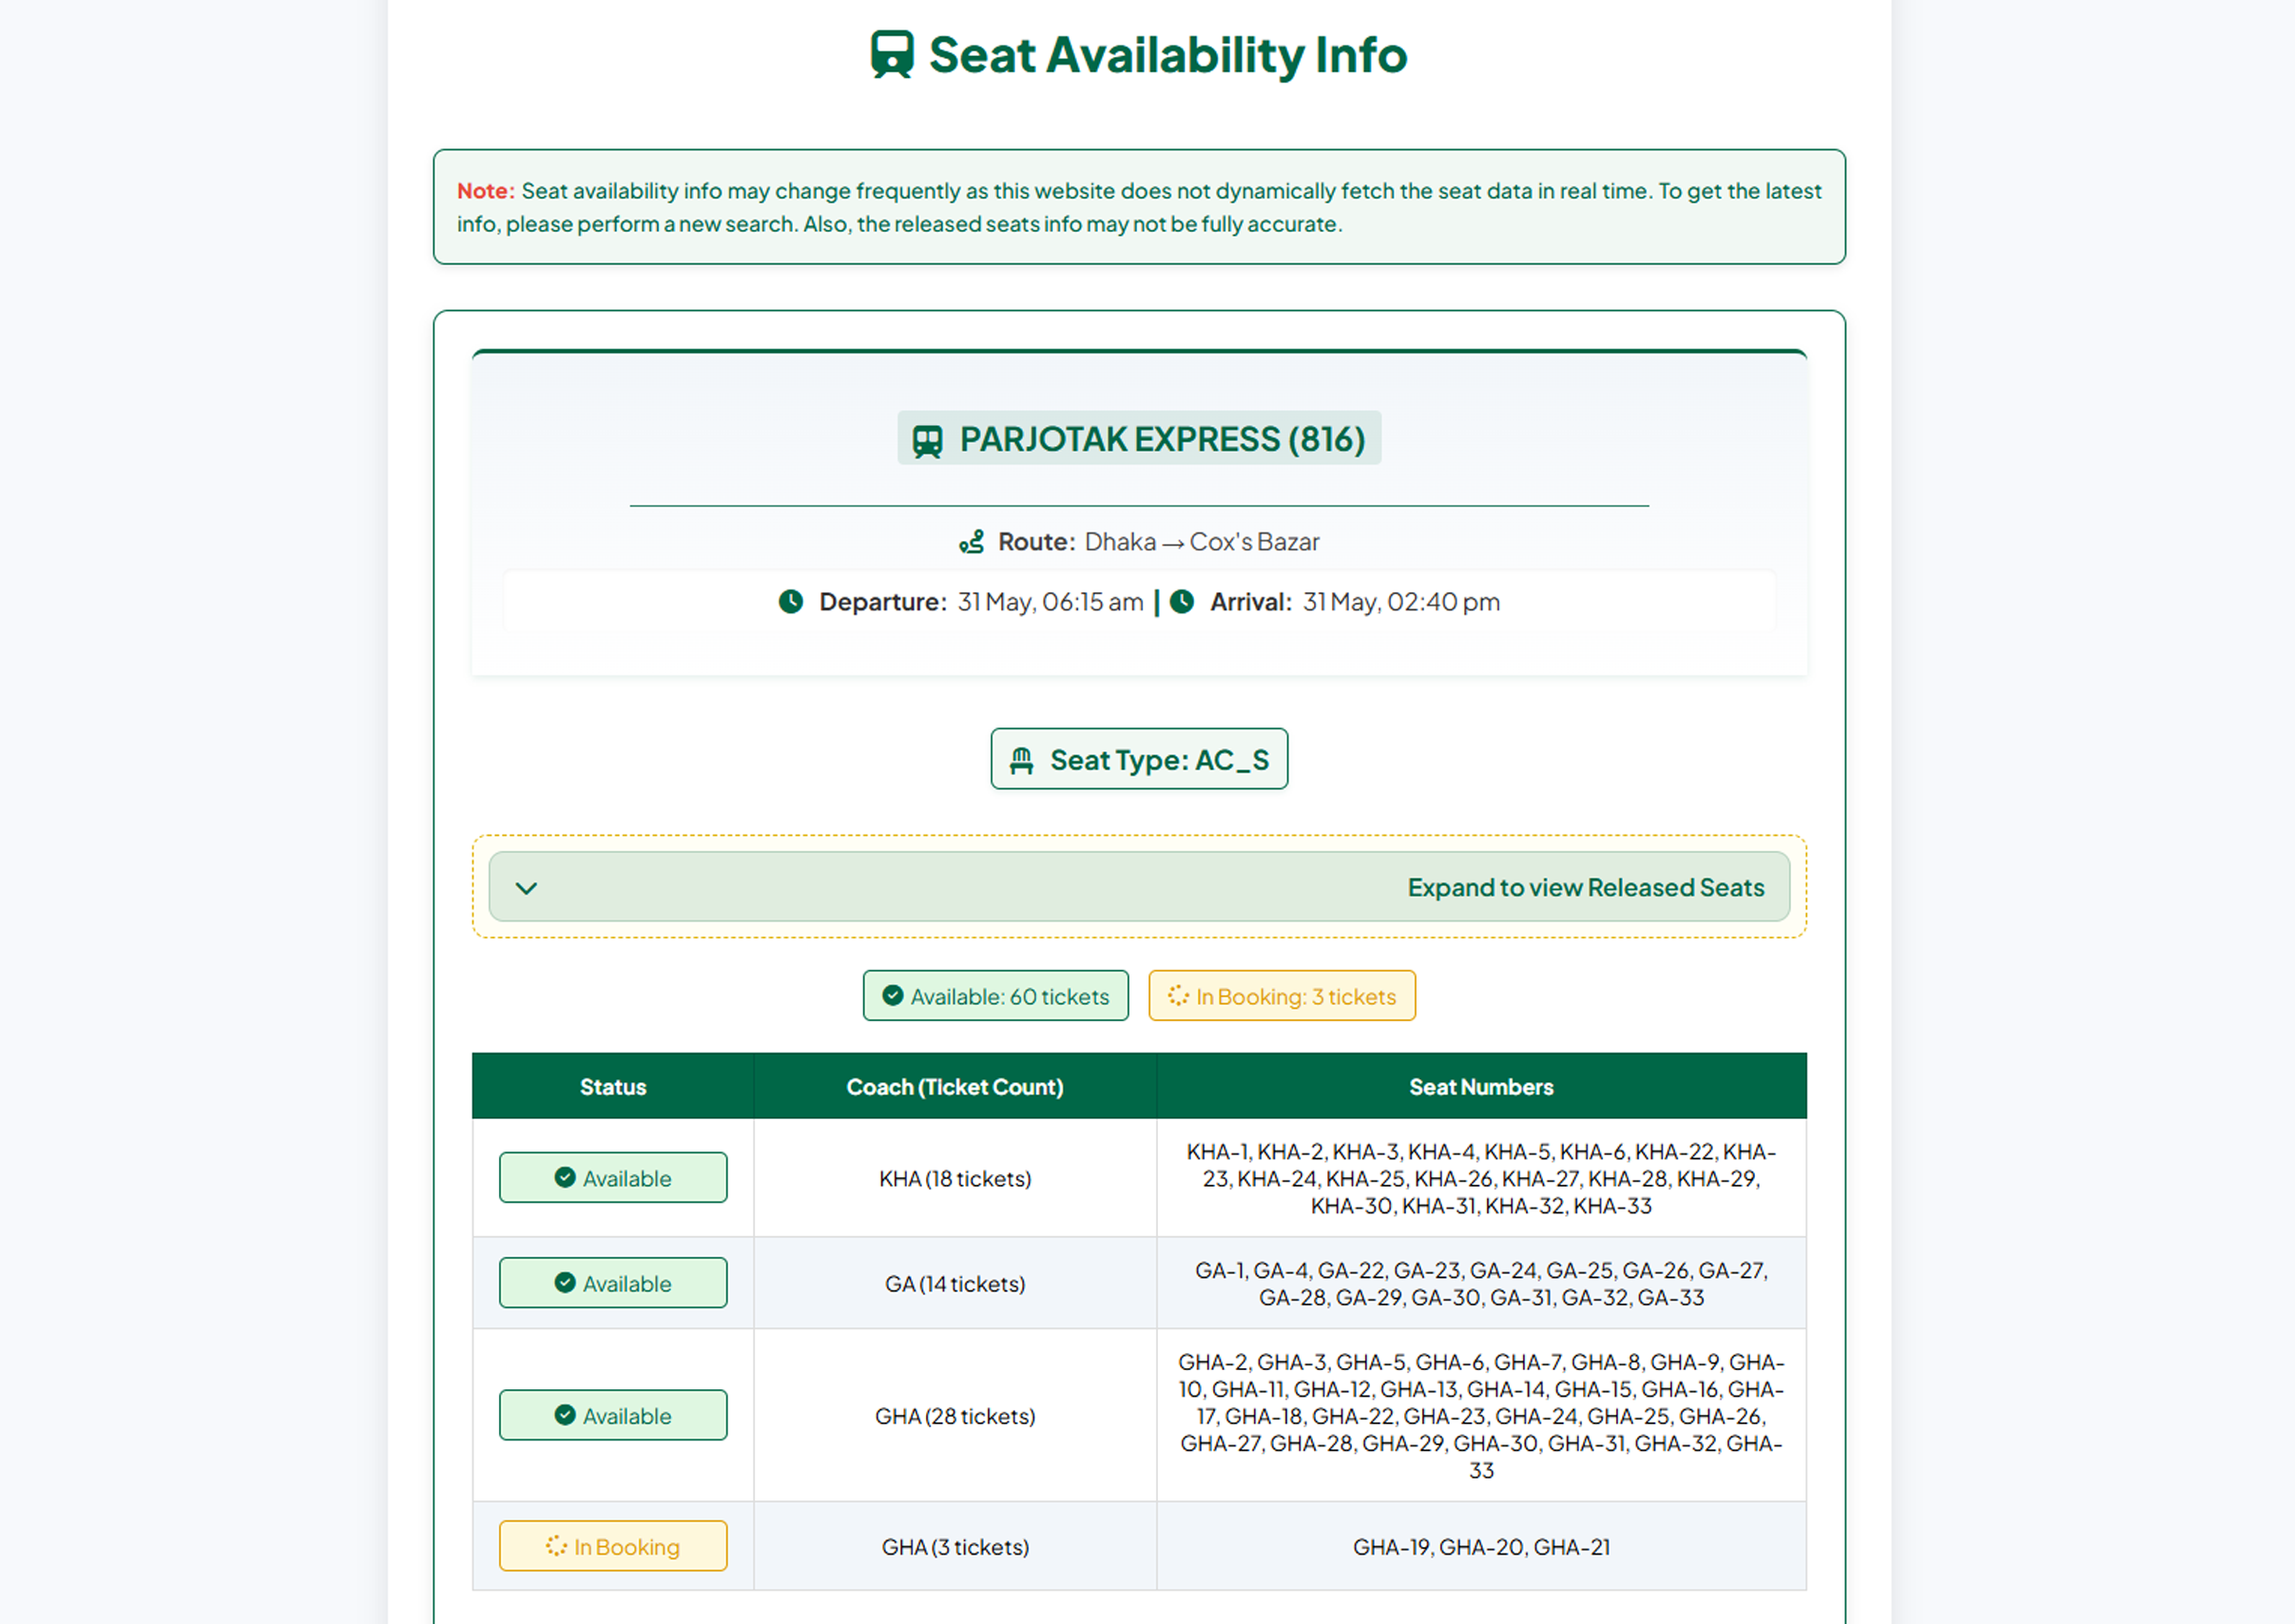
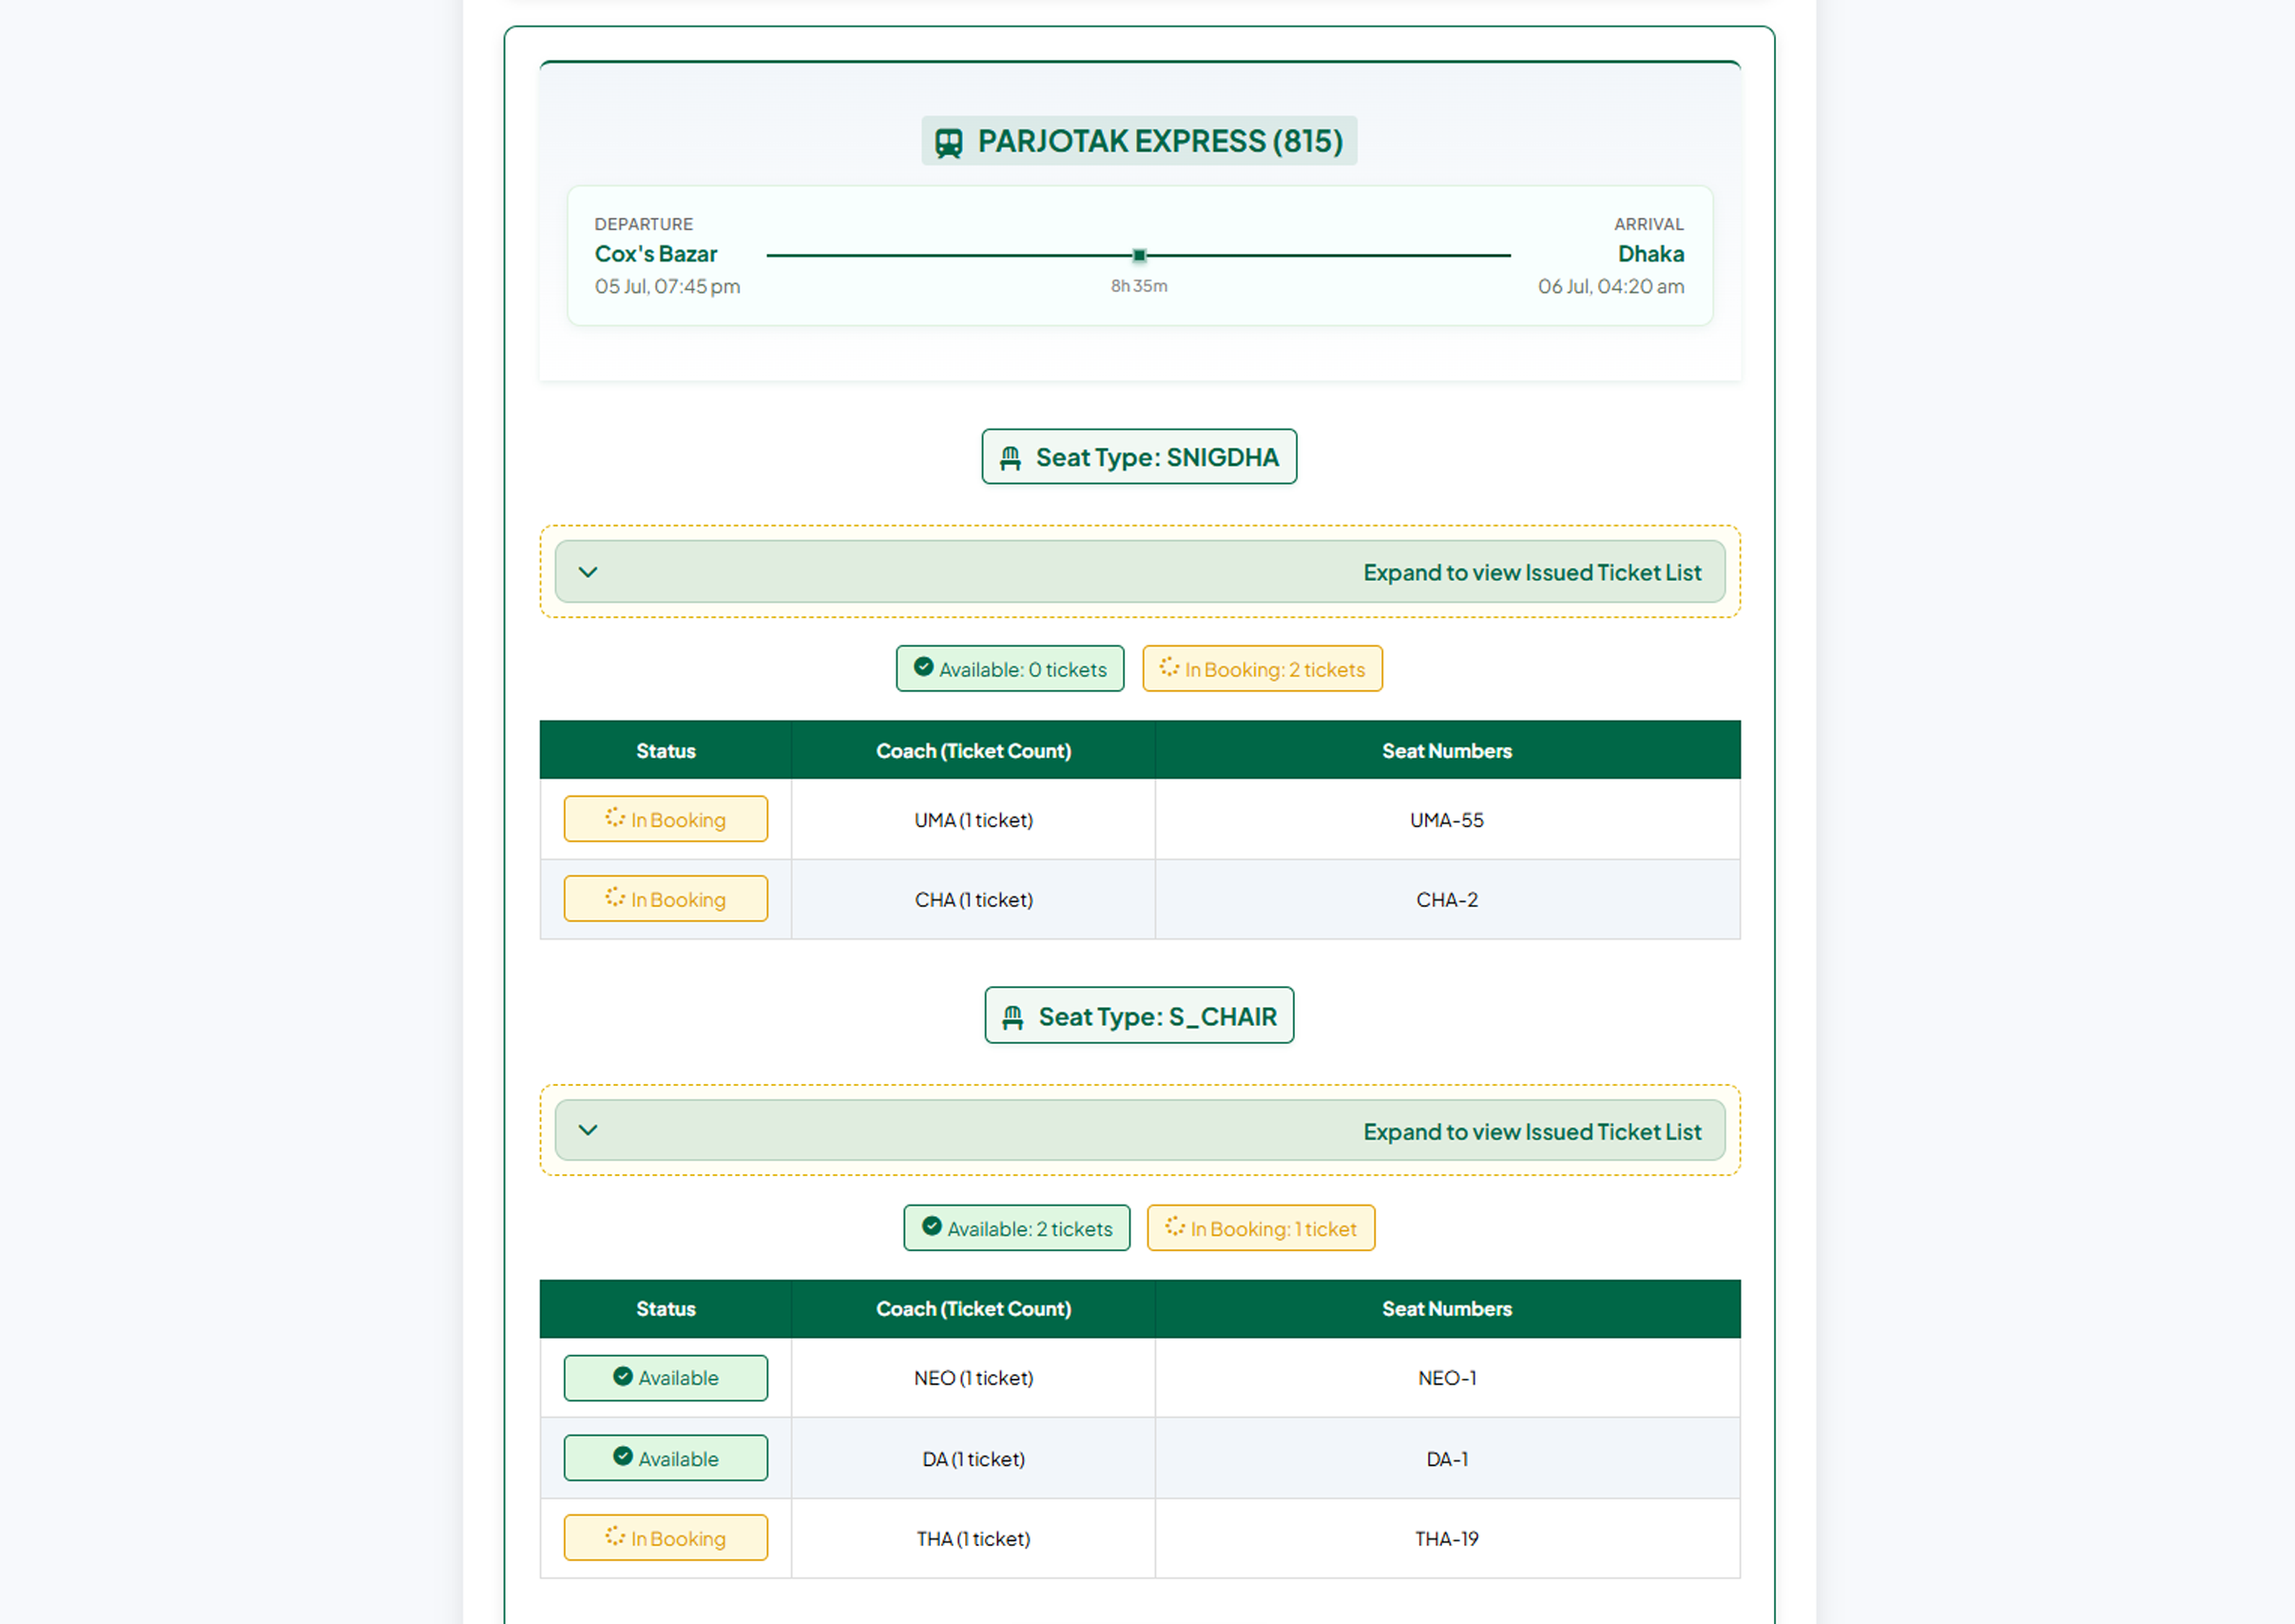
Improved journey timeline UI

Changed region(s): [[0.1864, 0.2482, 0.8078, 0.993], [0.1864, 0.0, 0.8078, 0.2172]]

diff --git a/assets/styles.css b/assets/styles.css
@@ -845,54 +845,91 @@ button:hover {
     color: #006747;
 }
 
-.train-separator {
-    width: 80%;
-    height: 1px;
-    background-color: #006747;
-    margin: 12px auto;
-    border-radius: 1px;
-    opacity: 0.8;
-}
-
-.timing-info {
+.journey-timeline {
     display: flex;
-    justify-content: center;
     align-items: center;
-    gap: 20px;
+    justify-content: space-between;
+    background: #f8fffe;
+    padding: 20px;
+    border-radius: 10px;
+    border: 1px solid #e0f2e0;
+    box-shadow: 0 2px 8px rgba(0, 103, 71, 0.06);
+    margin-bottom: 20px;
+}
+
+.journey-point {
+    flex: 0 0 auto;
+    text-align: center;
+}
+
+.journey-point.departure {
+    text-align: left;
+}
+
+.journey-point.arrival {
+    text-align: right;
+}
+
+.journey-label {
+    font-size: 12px;
+    color: #666;
+    font-weight: 500;
+    margin-bottom: 4px;
+    text-transform: uppercase;
+    letter-spacing: 0.5px;
+}
+
+.city-name {
     font-size: 16px;
-    flex-wrap: wrap;
-    margin: 10px 0;
-    line-height: 1.5;
-    background-color: #fff;
-    padding: 8px 12px;
-    border-radius: 6px;
-    box-shadow: inset 0 1px 3px rgba(0, 0, 0, 0.05);
-}
-
-.timing-info span {
-    display: inline-flex;
-    align-items: center;
-    gap: 6px;
-    white-space: nowrap;
-    color: #333;
-}
-
-.timing-info .separator {
-    font-weight: bold;
+    font-weight: 700;
     color: #006747;
-    font-size: 18px;
+    margin-bottom: 6px;
 }
 
-.timing-info .timing-block {
+.time-info {
+    font-size: 14px;
+    color: #5a6c57;
+    font-weight: 400;
+}
+
+.journey-connector {
+    flex: 1;
     display: flex;
     align-items: center;
-    gap: 5px;
-    font-size: 16px;
+    justify-content: center;
+    position: relative;
+    margin: 0 20px;
 }
 
-.timing-info .time-detail {
-    font-weight: normal;
-    color: #555;
+.journey-line {
+    flex: 1;
+    height: 2px;
+    background: linear-gradient(90deg, #006747, #004d33);
+    position: relative;
+}
+
+.journey-line::after {
+    content: '';
+    position: absolute;
+    top: 50%;
+    left: 50%;
+    transform: translate(-50%, -50%);
+    width: 8px;
+    height: 8px;
+    background: #006747;
+    border: 2px solid #f8fffe;
+    box-shadow: 0 2px 4px rgba(0, 103, 71, 0.3);
+}
+
+.journey-duration {
+    position: absolute;
+    top: 15px;
+    left: 50%;
+    transform: translateX(-50%);
+    font-size: 12px;
+    color: #888;
+    font-weight: 500;
+    white-space: nowrap;
 }
 
 .train-table h2 {
@@ -2215,18 +2252,36 @@ footer a:hover {
         font-size: 14px;
     }
 
-    .timing-info {
-        gap: 10px;
-        padding: 6px 10px;
+    .journey-timeline {
+        padding: 16px;
+    }
+    
+    .journey-label {
+        font-size: 10px;
+    }
+    
+    .city-name {
         font-size: 14px;
     }
-
-    .timing-info .separator {
-        display: none;
+    
+    .time-info {
+        font-size: 12px;
     }
-
-    .train-separator {
-        width: 90%;
+    
+    .journey-connector {
+        margin: 0 15px;
+    }
+    
+    .journey-duration {
+        font-size: 10px;
+        top: 12px;
+        padding: 3px 8px;
+    }
+    
+    .journey-line::after {
+        width: 6px;
+        height: 6px;
+        border-width: 1px;
     }
 
     .status {
@@ -2611,13 +2666,36 @@ footer a:hover {
         font-size: 14px;
     }
 
-    .timing-info {
-        font-size: 14px;
-        gap: 8px;
+    .journey-timeline {
+        padding: 12px;
     }
-
-    .timing-info .timing-block {
-        font-size: 14px;
+    
+    .journey-label {
+        font-size: 9px;
+    }
+    
+    .city-name {
+        font-size: 12px;
+    }
+    
+    .time-info {
+        font-size: 11px;
+    }
+    
+    .journey-connector {
+        margin: 0 10px;
+    }
+    
+    .journey-duration {
+        font-size: 9px;
+        top: 10px;
+        padding: 2px 6px;
+    }
+    
+    .journey-line::after {
+        width: 5px;
+        height: 5px;
+        border-width: 1px;
     }
 
     .no-seats {

diff --git a/templates/results.html b/templates/results.html
@@ -51,20 +51,26 @@
         <div class="train-card animated-fade-in">
             <div class="train-header">
                 <h2><i class="fas fa-subway"></i> {{ train }}</h2>
-                <div class="train-separator"></div>
-                <p>
-                    <i class="fas fa-route"></i>
-                    <strong>Route:</strong> {{ details['from_station'] }} → {{ details['to_station'] }}
-                </p>
-                <p class="timing-info">
-                    <span>
-                        <i class="fas fa-clock"></i> <strong>Departure:</strong> {{ details['departure_time'] }}
-                    </span>
-                    <span class="separator">|</span>
-                    <span>
-                        <i class="fas fa-clock"></i> <strong>Arrival:</strong> {{ details['arrival_time'] }}
-                    </span>
-                </p>
+                <div class="journey-timeline">
+                    <div class="journey-point departure">
+                        <div class="journey-label">Departure</div>
+                        <div class="city-name">{{ details['from_station'] }}</div>
+                        <div class="time-info">
+                            {{ details['departure_time'] }}
+                        </div>
+                    </div>
+                    <div class="journey-connector">
+                        <div class="journey-line"></div>
+                        <div class="journey-duration">{{ details['journey_duration'] }}</div>
+                    </div>
+                    <div class="journey-point arrival">
+                        <div class="journey-label">Arrival</div>
+                        <div class="city-name">{{ details['to_station'] }}</div>
+                        <div class="time-info">
+                            {{ details['arrival_time'] }}
+                        </div>
+                    </div>
+                </div>
             </div>
             {% if details['all_seats_422'] %}
             <div class="error-badge">

diff --git a/app.py b/app.py
@@ -162,6 +162,7 @@ def process_seat_request(origin, destination, formatted_date, form_values):
         for train, details in result.items():
             details['from_station'] = config['from_city']
             details['to_station'] = config['to_city']
+            details['journey_duration'] = calculate_journey_duration(details['departure_time'], details['arrival_time'])
             train_has_422_error = False
             train_error_message = None
             for seat_type in details['seat_data']:
@@ -204,6 +205,22 @@ def process_seat_request(origin, destination, formatted_date, form_values):
         return {"success": True, "result": result, "form_values": form_values}
     except Exception as e:
         return {"error": str(e)}
+
+def calculate_journey_duration(departure_time, arrival_time):
+    try:
+        dep_dt = datetime.strptime(departure_time, '%d %b, %I:%M %p')
+        arr_dt = datetime.strptime(arrival_time, '%d %b, %I:%M %p')
+        
+        if arr_dt < dep_dt:
+            arr_dt = arr_dt.replace(year=arr_dt.year + 1) if arr_dt.month == 12 and arr_dt.day == 31 else arr_dt + timedelta(days=1)
+        
+        duration = arr_dt - dep_dt
+        hours = int(duration.total_seconds() // 3600)
+        minutes = int((duration.total_seconds() % 3600) // 60)
+        
+        return f"{hours}h {minutes}m"
+    except:
+        return "N/A"
 
 @app.route('/check_seats', methods=['GET', 'POST'])
 def check_seats():
@@ -303,6 +320,7 @@ def check_seats():
             for train, details in result.items():
                 details['from_station'] = config['from_city']
                 details['to_station'] = config['to_city']
+                details['journey_duration'] = calculate_journey_duration(details['departure_time'], details['arrival_time'])
                 train_has_422_error = False
                 train_error_message = None
                 for seat_type in details['seat_data']:
